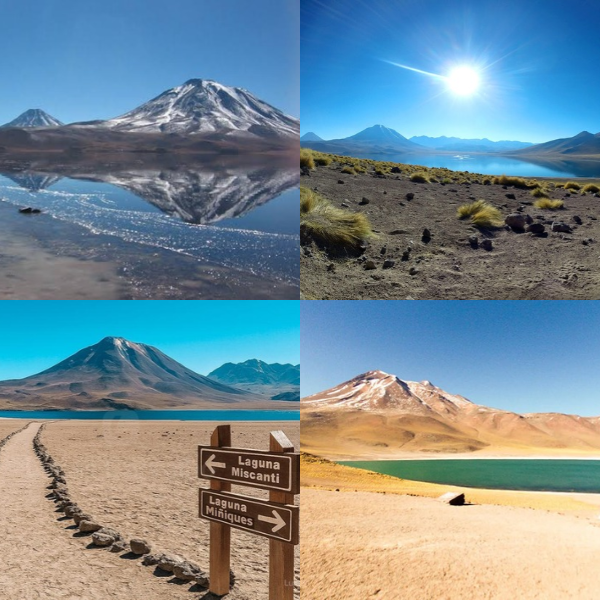
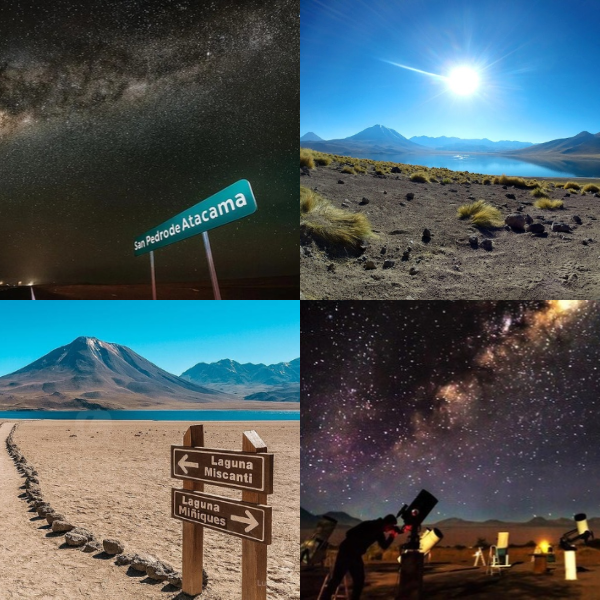
Edições projeto

diff --git a/exercicios/projetos-proprios/projeto-agencia-viagens/index.html b/exercicios/projetos-proprios/projeto-agencia-viagens/index.html
@@ -156,8 +156,8 @@
             <h3>Dia 07: Despedida do Deserto</h3>
 
             <picture>
-                <source media="(max-width: 700px)" srcset="">
-                <img src="" alt="Pontos turísticos do último dia de passeio">
+                <source media="(max-width: 700px)" srcset="images/dia-7-pq.png">
+                <img src="images/dia-7-grande.png" alt="Pontos turísticos do último dia de passeio">
             </picture>
             
             <p>

diff --git a/exercicios/projetos-proprios/projeto-agencia-viagens/style/style.css b/exercicios/projetos-proprios/projeto-agencia-viagens/style/style.css
@@ -34,6 +34,7 @@ main {
     max-width: 1400px;
     min-width: 300px;
     box-shadow: 1px 1px 10px;
+    padding-bottom: 20px;
 }
 
 img {
